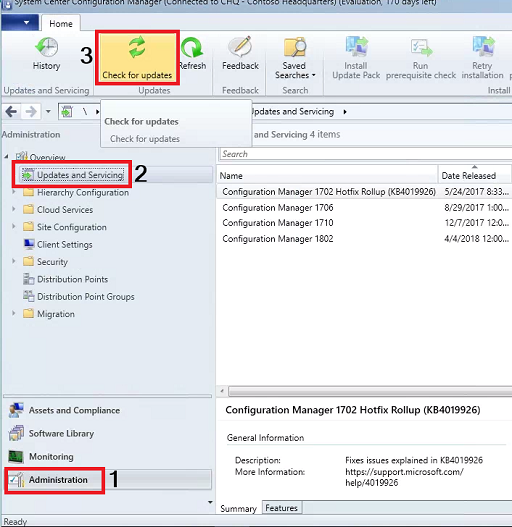
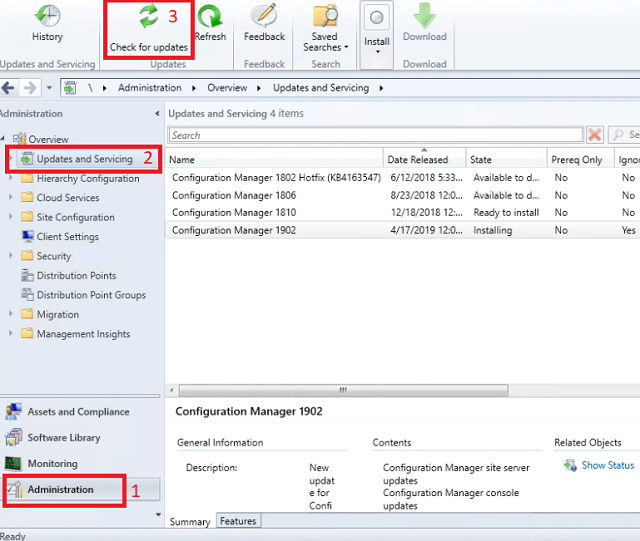
Updated as of current branch 1902

diff --git a/_posts/2018-05-30-set-up-the-sccm-lab.md b/_posts/2018-05-30-set-up-the-sccm-lab.md
@@ -2,12 +2,13 @@
 layout: post
 published: true
 title: In the SCCM Lab
-date: '2018-05-30'
+date: '2019-05-20'
 subtitle: 'With a pen and a pad, trying to get this deployment off'
 ---
 My first lab was [Johan's hydration kit](https://deploymentresearch.com/Research/Post/580/Hydration-Kit-For-Windows-Server-2016-and-ConfigMgr-Current-Technical-Preview-Branch).  It's incredibly powerful, customizable, and educational.  Unfortunately it takes a little more time and know-how than a novice like myself was initially prepared for.
 
 However, at MMS [Steve Jesok](https://twitter.com/mrjesok) pointed out that Microsoft provides an **all-in-one** solution: the [Windows and Office Deployment Lab Kit](https://www.microsoft.com/en-us/evalcenter/evaluate-lab-kit).  Within minutes, we can have a fully functional domain controller and SCCM server.
+######  Post has been updated to be current as of 5/20/2019
 
 ### The Requirements
 1. **Set up a host device** - For this lab, I'm using a Windows 10 Pro workstation with an old i7 CPU, 16GB of RAM, and a secondary 500GB hard drive.
@@ -15,7 +16,7 @@ However, at MMS [Steve Jesok](https://twitter.com/mrjesok) pointed out that Micr
 2. **Enable Hyper-V** -  If Hyper-V is not yet installed, open _Turn Windows features on or off_, check _Hyper-V_, and click _OK_. Reboot.
 
     ![enable_hyper-v.PNG](/img/200/enable_hyper-v.PNG)
-3. **Configure networking** - Launch Hyper-V as administrator, and open the Virtual Switch Manager.  Under _Virtual Switches_, select _New virtual network switch_.  Select _External_ and click _Create Virtual Switch_.  Name it _Lab_ and and leave everything else default.  Click _OK_, and if you are prompted with a warning, click _OK_ again.
+3. **Configure networking** - Launch Hyper-V as administrator, and open the _Virtual Switch Manager_.  Under _Virtual Switches_, select _New virtual network switch_.  Select _External_ and click _Create Virtual Switch_.  Name it _Lab_ and and leave everything else default.  Click _OK_, and if you are prompted with a warning, click _OK_ again.
 
     ![configure_virtual_switch.PNG](/img/200/configure_virtual_switch.PNG)
 
@@ -31,11 +32,11 @@ However, at MMS [Steve Jesok](https://twitter.com/mrjesok) pointed out that Micr
     ![run_setup_exe.PNG](/img/200/run_setup_exe.PNG)
 4. **Setup Wizard** - Click _Next_ all the way through to the end.  It will import all the VMs into Hyper-V.
 
-5. **Configure VM Settings** - You should see HYD-DC1 and HYD-GW1 already running.  Shut them down.
+5. **Configure VM Settings** - You should see HYD-DC1 and HYD-GW1 already running.  Shut them down.  We won't be using HYD-GW1 again.
 
-6. **Domain Controller** - Right click HYD-DC1 and select _Settings_. Set Memory to 1024MB and uncheck _Enable Dynamic Memory_.  Set CPU to **one** virtual processor.
+6. **Domain Controller** - Right click HYD-DC1 and select _Settings_. Set _Maximum Memory_ to **2048**MB and leave _Enable Dynamic Memory_ checked.  Set CPU to **one** virtual processor.
 
-7. **SCCM Server** - Right click HYD-CM1 and select _Settings_. Set Memory to 8192 and uncheck _Enable Dynamic Memory_. Set CPU to **two** virtual processors.
+7. **SCCM Server** - Right click HYD-CM1 and select _Settings_. Leave memory settings at default. Set CPU to **two** virtual processors.
 
     ![hyd-cm1_settings.PNG](/img/200/hyd-cm1_settings.PNG)
 
@@ -43,10 +44,10 @@ However, at MMS [Steve Jesok](https://twitter.com/mrjesok) pointed out that Micr
 ###### Note: We will NOT be using the external virtual switch called _Lab_ from _Step 3_ of the _Requirements_ section.  It was only necessary so that Setup.exe from the _Setup_ section would run.
 1. **NAT Networking** - We'll use [Ami Casto's NAT network script](https://deploymentresearch.com/Research/Post/558/Setting-Up-New-Networking-Features-in-Server-2016 "Setting Up New Networking Features in Server 2016") instead of the Internet Gateway (HYD-GW1) to make the lab simpler.  You can learn more about NAT networking [here](https://docs.microsoft.com/en-us/virtualization/hyper-v-on-windows/user-guide/setup-nat-network "Set up a NAT network").
 
-2.  **Prepare the Virtual Switch** - The Powered Device Lab creates it's own private network switch, so we need to make it an _Internal_ one to work with Ami's script.  In Hyper-V click _Virtual Switch Manager_.  Click on _HYD-CorpNet_.  Select _Internal network_ and click _OK_.
+2.  **Prepare the Virtual Switch** - The Deployment Lab Kit creates it's own private network switch, so we need to make it an _Internal_ one to work with Ami's script.  In Hyper-V click _Virtual Switch Manager_.  Click on _HYD-CorpNet_.  Select _Internal network_ and click _OK_.
 
     ![internal_network.PNG](/img/200/internal_network.PNG)
-3. **Customize the script** - Launch Windows Powershell ISE as Administrator.  Copy and paste the following code into the top script pane.  This is an edited version of Ami's code customized for our Microsoft lab.  Hit F5 to run it.
+3. **Customize the script** - On the host system, launch Windows Powershell ISE as Administrator.  Copy and paste the following code into the top script pane.  This is an edited version of Ami's code customized for our Microsoft lab.  Hit F5 to run it.
 ```powershell
     New-NetIPAddress –IPAddress 10.0.0.254 -PrefixLength 24 -InterfaceAlias "vEthernet (HYD-CorpNet)" 
     New-NetNat –Name HYD-CorpNetNATNetwork –InternalIPInterfaceAddressPrefix 10.0.0.0/24
@@ -65,11 +66,11 @@ However, at MMS [Steve Jesok](https://twitter.com/mrjesok) pointed out that Micr
     ![sccm_console.png](/img/200/sccm_console.png)
 
 ### The Finishing Touch
-###### Now that we've got a functioning domain, SCCM server, and internet access, it's time to update.  These steps are detailed in the _02_Lab_Setup_ guide that is packaged with the Powered Device Lab.
+###### Now that we've got a functioning domain, SCCM server, and internet access, it's time to update.
 1. In the SCCM console, navigate to the _Administration_ node and select _Updates and Servicing_. Click on _Check for updates_.
 
     ![check_for_updates.png](/img/200/check_for_updates.png)
-2. If the latest version hasn't already started downloading, select it (in this case 1802), right click and choose _Download_.
+2. If the latest version hasn't already started downloading, select it (in this case 1902), right click and choose _Download_.
 
 3. Once it is downloading, on the bottom pane click on the _Show Status_ link.
 
